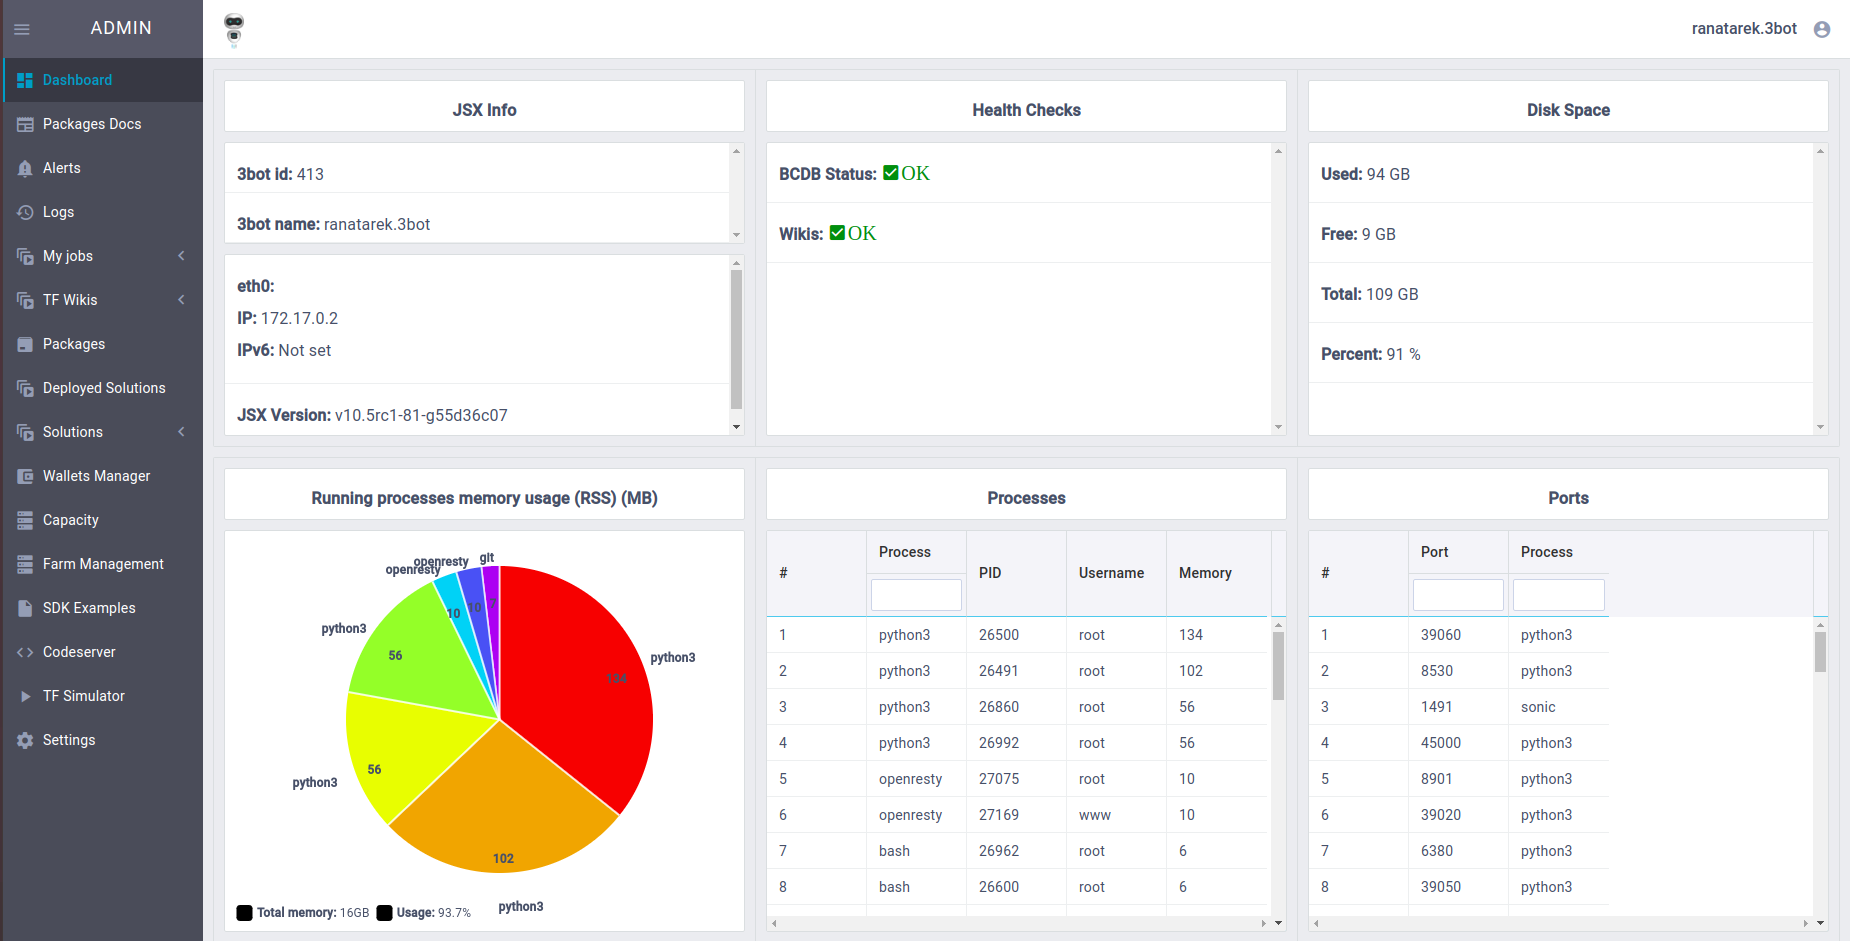
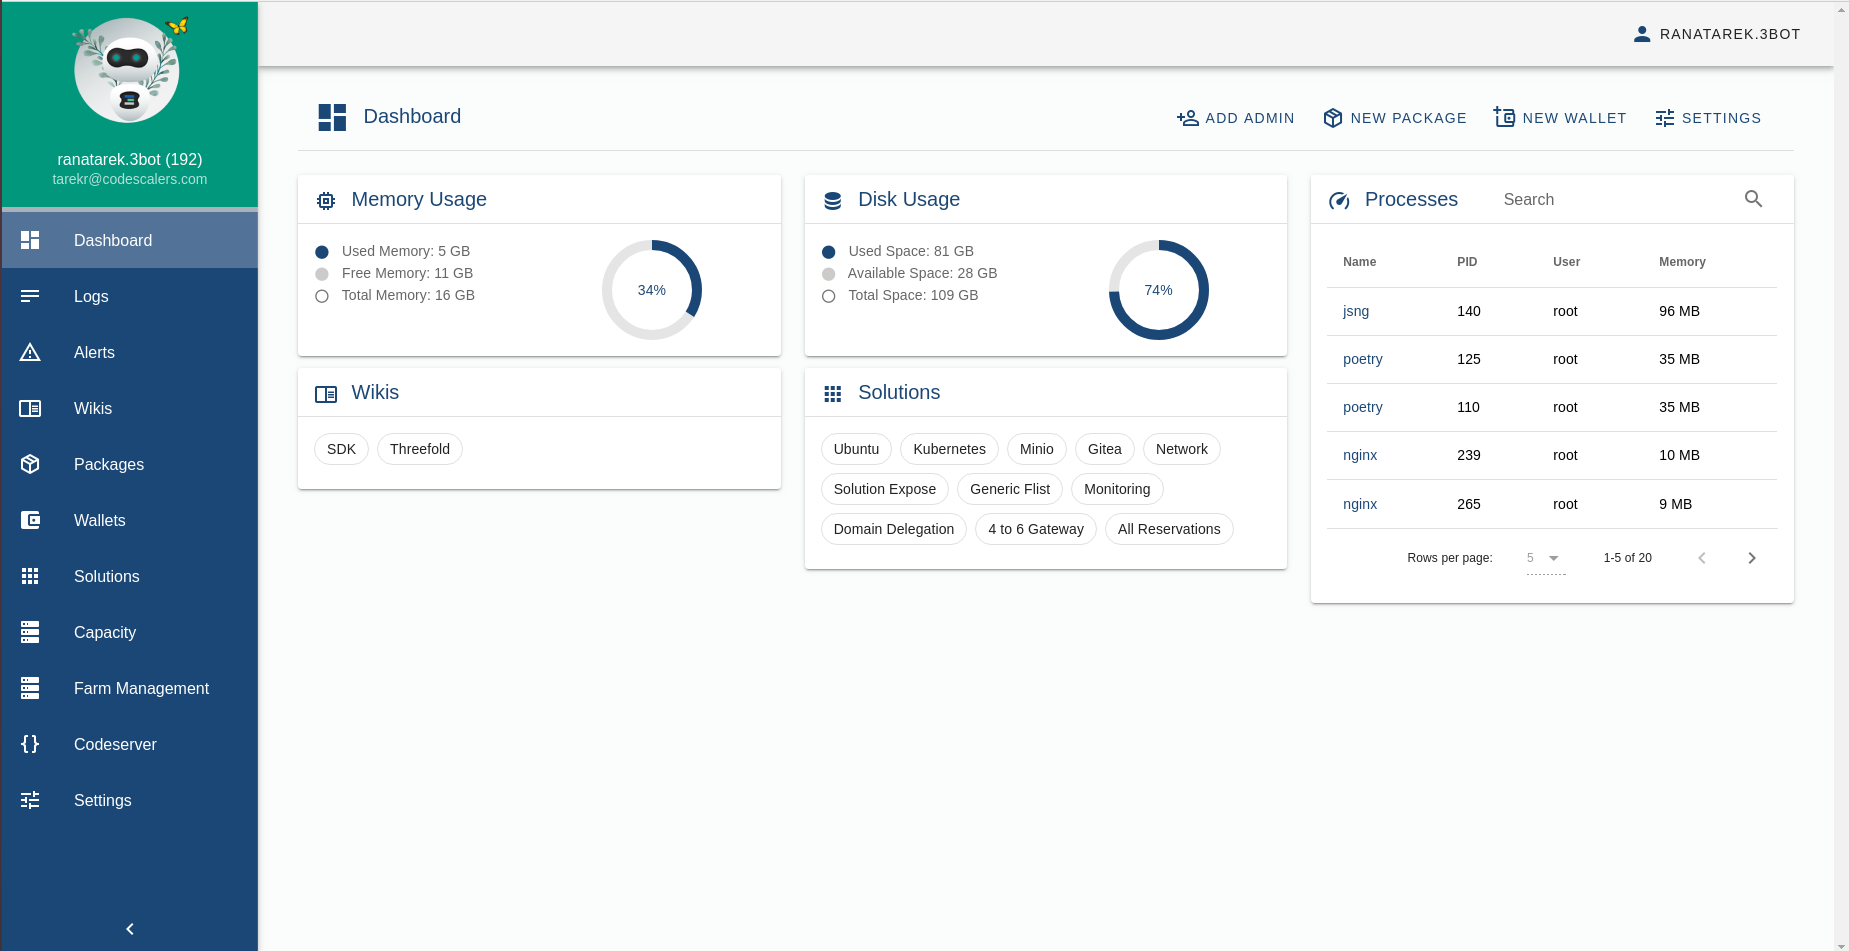
Update deploy your first solution docs with image of new dashboard

diff --git a/src/2_gettingstarted/getting_started_first_solution.md b/src/2_gettingstarted/getting_started_first_solution.md
@@ -43,11 +43,11 @@ If you are hitting an issue or want to build from source, head to the full insta
 
 Once you have the 3SDK binary available, you can now use it to start the installation process.
 
-To do so, execute the 3SDK binary. This will open a shell in which plenty of actions are available to you. For this tutorial you only need to use one `container threebot`
+To do so, execute the 3SDK binary. This will open a shell in which plenty of actions are available to you. For this tutorial you only need to use one `threebot start`
 
-After typing the command, a wizard will guide you through the rest of the installation process. (Complete documentation is once again available in the [associated section of the manual](3sdk_use.md))
+After typing the command, a wizard will guide you through the rest of the installation process and setting up your identity. (Complete documentation is once again available in the [associated section of the manual](3sdk_use.md))
 
-After the full installation process is done, you should be able to reach the webUI of the 3SDK at [https://localhost:4000](https://localhost:4000)  and it should look like:
+After the full installation process is done, you should be able to reach the webUI of the 3SDK at [https://localhost/admin](https://localhost/admin/)  and it should look like:
 
 ![./img/dashboard.png](./img/dashboard.png)
 
